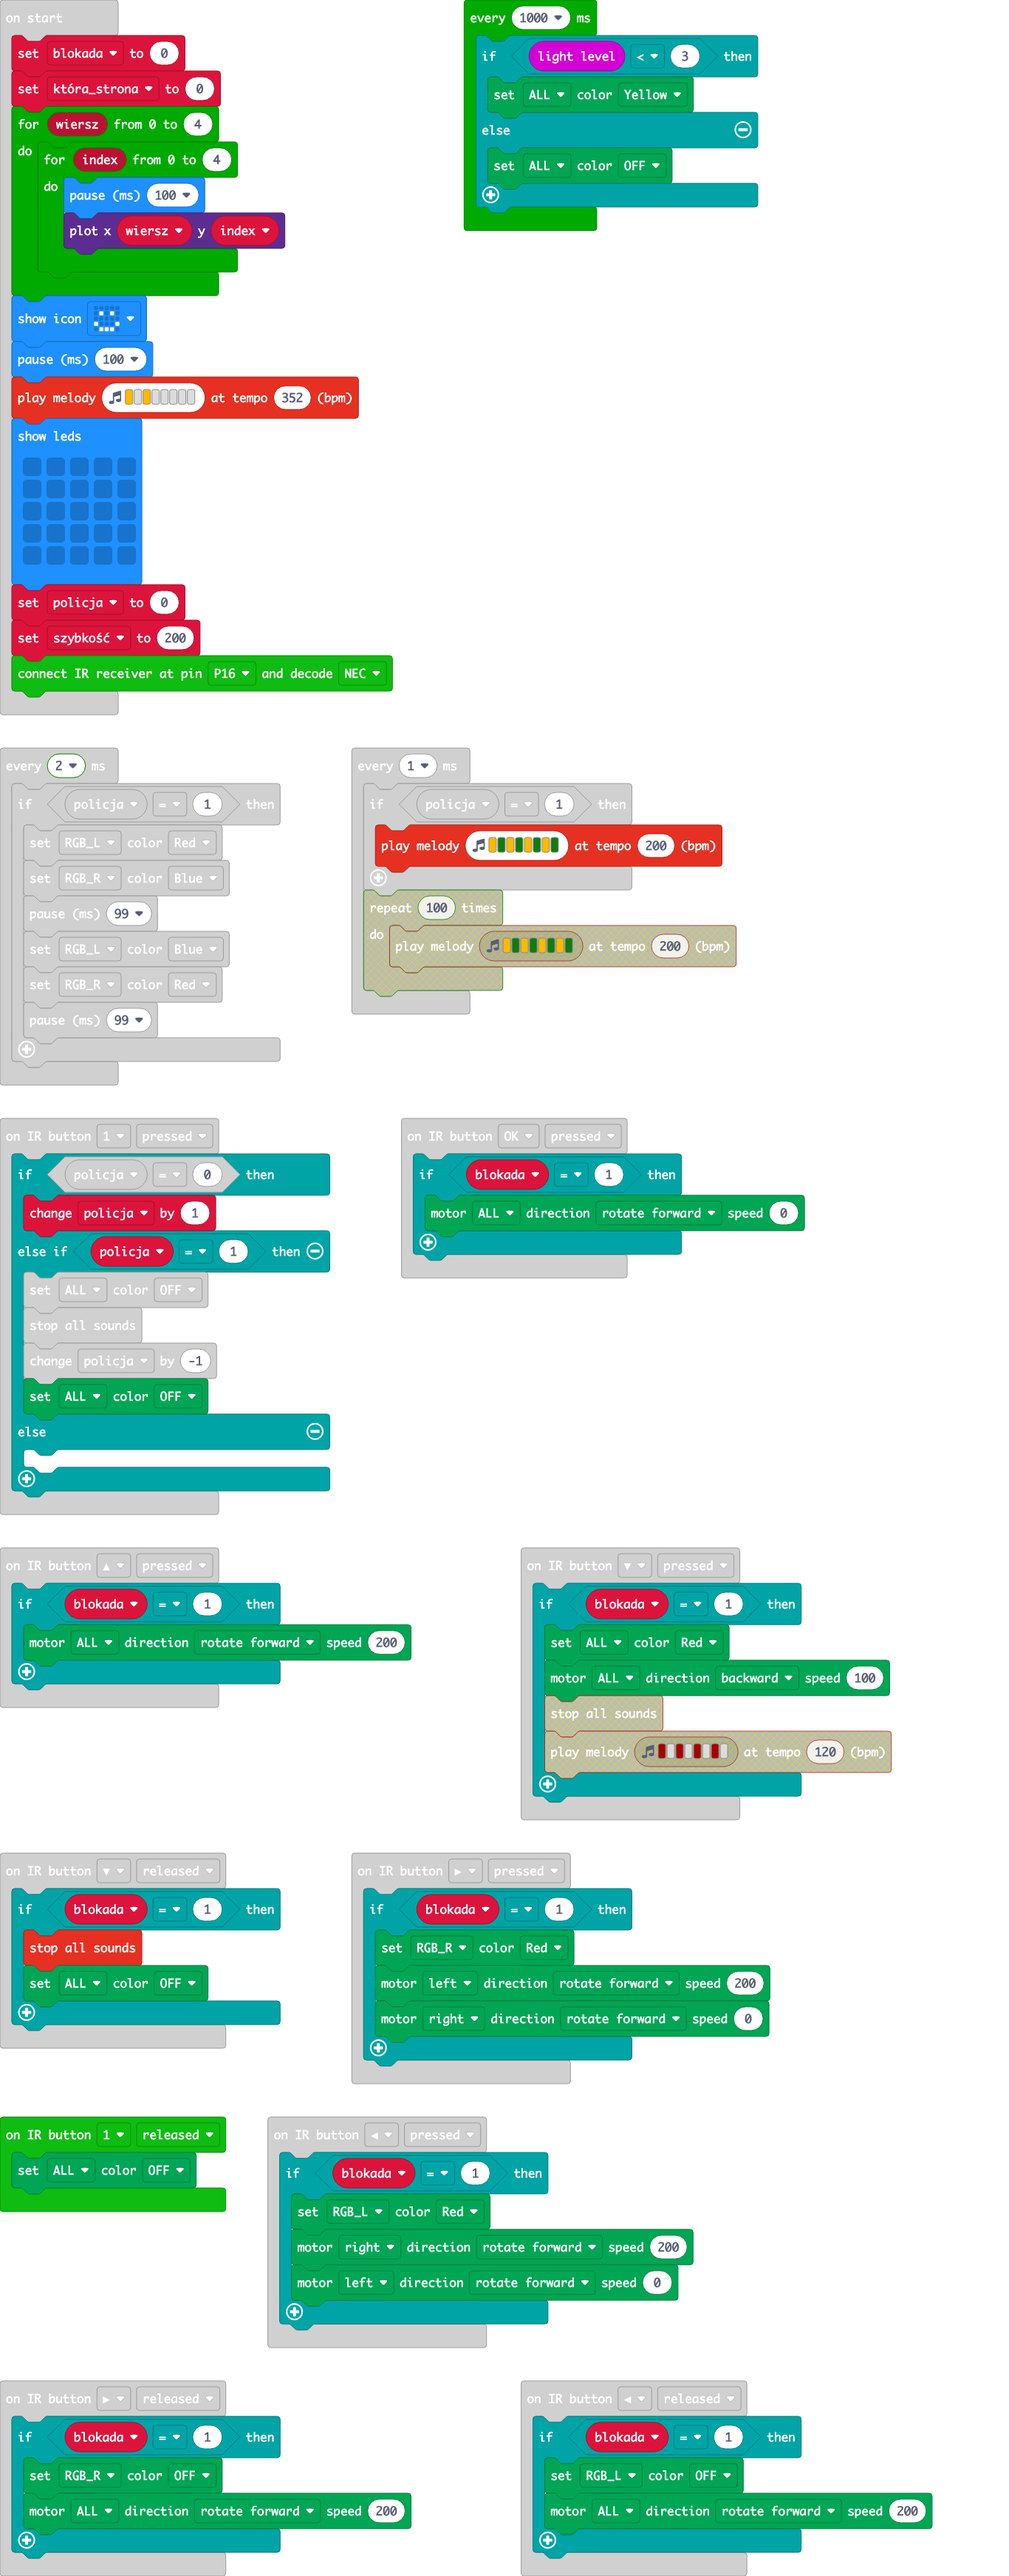
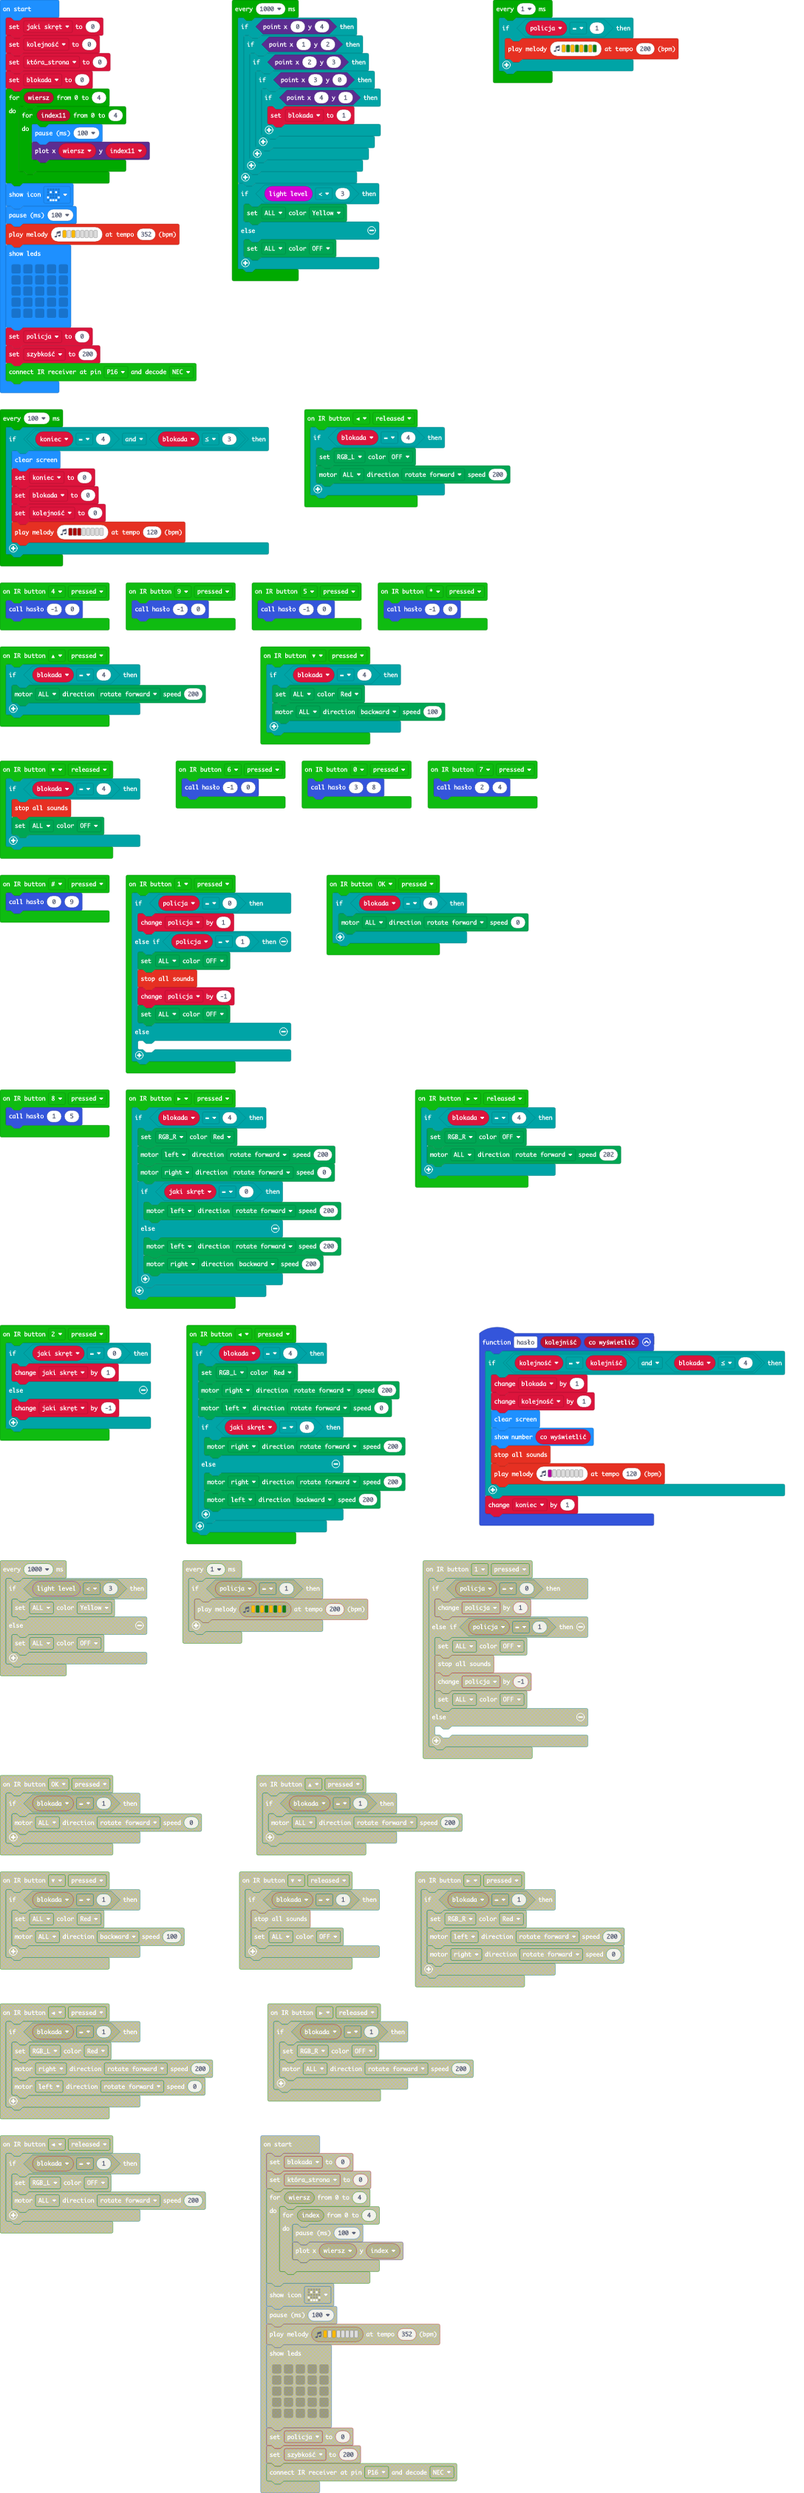
hasło+ostry_skręt

diff --git a/main.ts b/main.ts
@@ -1,14 +1,23 @@
 makerbit.onIrButton(IrButton.Right, IrButtonAction.Released, function () {
-    if (blokada == 1) {
+    if (blokada == 4) {
         DFRobotMaqueenPlus.setRGBLight(RGBLight.RGBR, Color.OFF)
-        DFRobotMaqueenPlus.mototRun(Motors.ALL, Dir.CW, 200)
+        DFRobotMaqueenPlus.mototRun(Motors.ALL, Dir.CW, 202)
     }
 })
+makerbit.onIrButton(IrButton.Number_8, IrButtonAction.Pressed, function () {
+    hasło(1, 5)
+})
+makerbit.onIrButton(IrButton.Hash, IrButtonAction.Pressed, function () {
+    hasło(0, 9)
+})
 makerbit.onIrButton(IrButton.Left, IrButtonAction.Released, function () {
-    if (blokada == 1) {
+    if (blokada == 4) {
         DFRobotMaqueenPlus.setRGBLight(RGBLight.RGBL, Color.OFF)
         DFRobotMaqueenPlus.mototRun(Motors.ALL, Dir.CW, 200)
     }
+})
+makerbit.onIrButton(IrButton.Number_0, IrButtonAction.Pressed, function () {
+    hasło(3, 8)
 })
 makerbit.onIrButton(IrButton.Number_1, IrButtonAction.Pressed, function () {
     if (policja == 0) {
@@ -22,53 +31,106 @@ makerbit.onIrButton(IrButton.Number_1, IrButtonAction.Pressed, function () {
     	
     }
 })
+makerbit.onIrButton(IrButton.Number_4, IrButtonAction.Pressed, function () {
+    hasło(-1, 0)
+})
+makerbit.onIrButton(IrButton.Number_5, IrButtonAction.Pressed, function () {
+    hasło(-1, 0)
+})
+makerbit.onIrButton(IrButton.Number_6, IrButtonAction.Pressed, function () {
+    hasło(-1, 0)
+})
 makerbit.onIrButton(IrButton.Left, IrButtonAction.Pressed, function () {
-    if (blokada == 1) {
+    if (blokada == 4) {
         DFRobotMaqueenPlus.setRGBLight(RGBLight.RGBL, Color.RED)
         DFRobotMaqueenPlus.mototRun(Motors.M2, Dir.CW, 200)
         DFRobotMaqueenPlus.mototRun(Motors.M1, Dir.CW, 0)
+        if (jaki_skręt == 0) {
+            DFRobotMaqueenPlus.mototRun(Motors.M2, Dir.CW, 200)
+        } else {
+            DFRobotMaqueenPlus.mototRun(Motors.M2, Dir.CW, 200)
+            DFRobotMaqueenPlus.mototRun(Motors.M1, Dir.CCW, 200)
+        }
     }
+})
+makerbit.onIrButton(IrButton.Number_7, IrButtonAction.Pressed, function () {
+    hasło(2, 4)
 })
 makerbit.onIrButton(IrButton.Number_1, IrButtonAction.Released, function () {
     DFRobotMaqueenPlus.setRGBLight(RGBLight.RGBA, Color.OFF)
 })
 makerbit.onIrButton(IrButton.Down, IrButtonAction.Pressed, function () {
-    if (blokada == 1) {
+    if (blokada == 4) {
         DFRobotMaqueenPlus.setRGBLight(RGBLight.RGBA, Color.RED)
         DFRobotMaqueenPlus.mototRun(Motors.ALL, Dir.CCW, 100)
     }
 })
 makerbit.onIrButton(IrButton.Down, IrButtonAction.Released, function () {
-    if (blokada == 1) {
+    if (blokada == 4) {
         music.stopAllSounds()
         DFRobotMaqueenPlus.setRGBLight(RGBLight.RGBA, Color.OFF)
     }
 })
+makerbit.onIrButton(IrButton.Star, IrButtonAction.Pressed, function () {
+    hasło(-1, 0)
+})
 makerbit.onIrButton(IrButton.Up, IrButtonAction.Pressed, function () {
-    if (blokada == 1) {
+    if (blokada == 4) {
         DFRobotMaqueenPlus.mototRun(Motors.ALL, Dir.CW, 200)
     }
 })
+makerbit.onIrButton(IrButton.Number_2, IrButtonAction.Pressed, function () {
+    if (jaki_skręt == 0) {
+        jaki_skręt += 1
+    } else {
+        jaki_skręt += -1
+    }
+})
 makerbit.onIrButton(IrButton.Right, IrButtonAction.Pressed, function () {
-    if (blokada == 1) {
+    if (blokada == 4) {
         DFRobotMaqueenPlus.setRGBLight(RGBLight.RGBR, Color.RED)
         DFRobotMaqueenPlus.mototRun(Motors.M1, Dir.CW, 200)
         DFRobotMaqueenPlus.mototRun(Motors.M2, Dir.CW, 0)
+        if (jaki_skręt == 0) {
+            DFRobotMaqueenPlus.mototRun(Motors.M1, Dir.CW, 200)
+        } else {
+            DFRobotMaqueenPlus.mototRun(Motors.M1, Dir.CW, 200)
+            DFRobotMaqueenPlus.mototRun(Motors.M2, Dir.CCW, 200)
+        }
     }
 })
 makerbit.onIrButton(IrButton.Ok, IrButtonAction.Pressed, function () {
-    if (blokada == 1) {
+    if (blokada == 4) {
         DFRobotMaqueenPlus.mototRun(Motors.ALL, Dir.CW, 0)
     }
 })
+function hasło (kolejniść: number, co_wyświetlić: number) {
+    if (kolejność == kolejniść && blokada <= 4) {
+        blokada += 1
+        kolejność += 1
+        basic.clearScreen()
+        basic.showNumber(co_wyświetlić)
+        music.stopAllSounds()
+        music.playMelody("C - - - - - - - ", 120)
+    }
+    koniec += 1
+}
+makerbit.onIrButton(IrButton.Number_9, IrButtonAction.Pressed, function () {
+    hasło(-1, 0)
+})
+let koniec = 0
 let policja = 0
 let blokada = 0
-blokada = 0
+let kolejność = 0
+let jaki_skręt = 0
+jaki_skręt = 0
+kolejność = 0
 let która_strona = 0
+blokada = 0
 for (let wiersz = 0; wiersz <= 4; wiersz++) {
-    for (let index = 0; index <= 4; index++) {
+    for (let index11 = 0; index11 <= 4; index11++) {
         basic.pause(100)
-        led.plot(wiersz, index)
+        led.plot(wiersz, index11)
     }
 }
 basic.showIcon(IconNames.Happy)
@@ -85,6 +147,17 @@ policja = 0
 let szybkość = 200
 makerbit.connectIrReceiver(DigitalPin.P16, IrProtocol.NEC)
 loops.everyInterval(1000, function () {
+    if (led.point(0, 4)) {
+        if (led.point(1, 2)) {
+            if (led.point(2, 3)) {
+                if (led.point(3, 0)) {
+                    if (led.point(4, 1)) {
+                        blokada = 1
+                    }
+                }
+            }
+        }
+    }
     if (input.lightLevel() < 3) {
         DFRobotMaqueenPlus.setRGBLight(RGBLight.RGBA, Color.YELLOW)
     } else {
@@ -104,5 +177,14 @@ loops.everyInterval(2, function () {
         DFRobotMaqueenPlus.setRGBLight(RGBLight.RGBL, Color.BLUE)
         DFRobotMaqueenPlus.setRGBLight(RGBLight.RGBR, Color.RED)
         basic.pause(99)
+    }
+})
+loops.everyInterval(100, function () {
+    if (koniec == 4 && blokada <= 3) {
+        basic.clearScreen()
+        koniec = 0
+        blokada = 0
+        kolejność = 0
+        music.playMelody("C5 C5 C5 - - - - - ", 120)
     }
 })

diff --git a/main.py b/main.py
@@ -1,7 +1,7 @@
 def on_ir_button_right_released():
     if blokada == 1:
         DFRobotMaqueenPlus.set_rgb_light(RGBLight.RGBR, Color.OFF)
-        DFRobotMaqueenPlus.motot_run(Motors.ALL, Dir.CW, 200)
+        DFRobotMaqueenPlus.motot_run(Motors.ALL, Dir.CW, 201)
 makerbit.on_ir_button(IrButton.RIGHT,
     IrButtonAction.RELEASED,
     on_ir_button_right_released)
@@ -121,10 +121,8 @@ makerbit.on_ir_button(IrButton.OK, IrButtonAction.PRESSED, on_ir_button_ok_press
 
 policja = 0
 blokada = 0
-blokada = 0
-serial.write_number(DFRobotMaqueenPlus.ultra_sonic(PIN.P1, PIN.P2))
-serial.write_line("")
 która_strona = 0
+blokada = 0
 for wiersz in range(5):
     for index11 in range(5):
         basic.pause(100)
